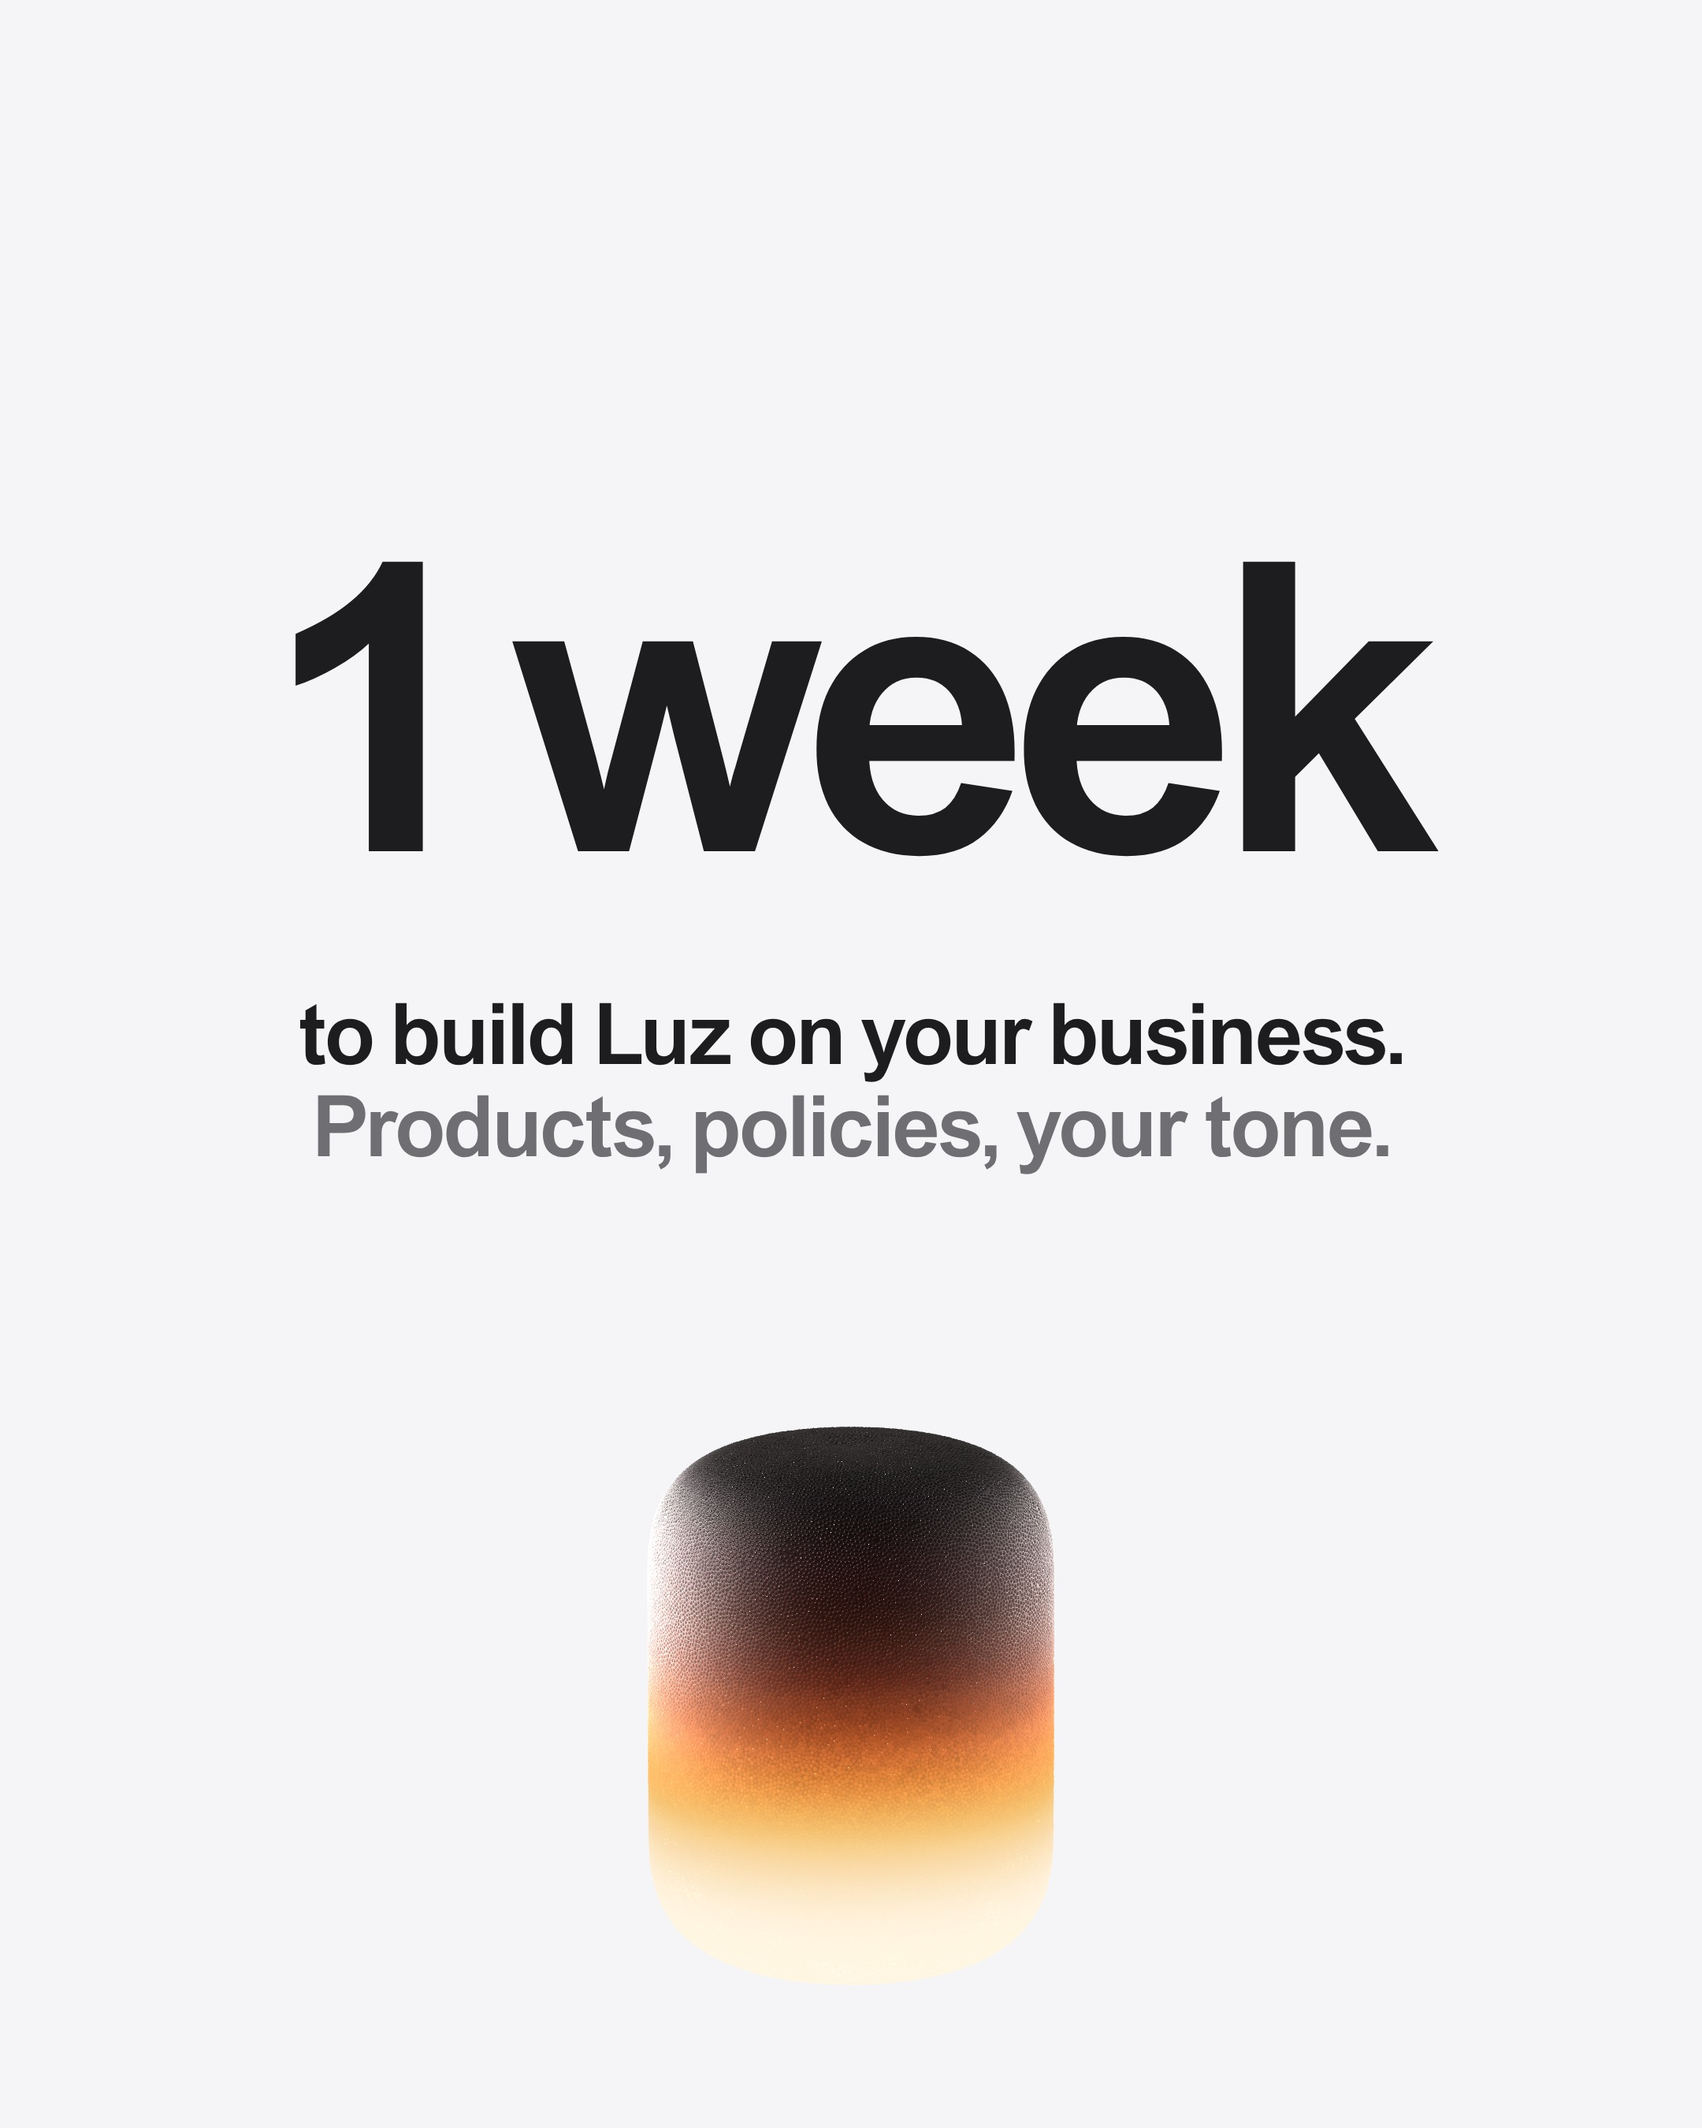
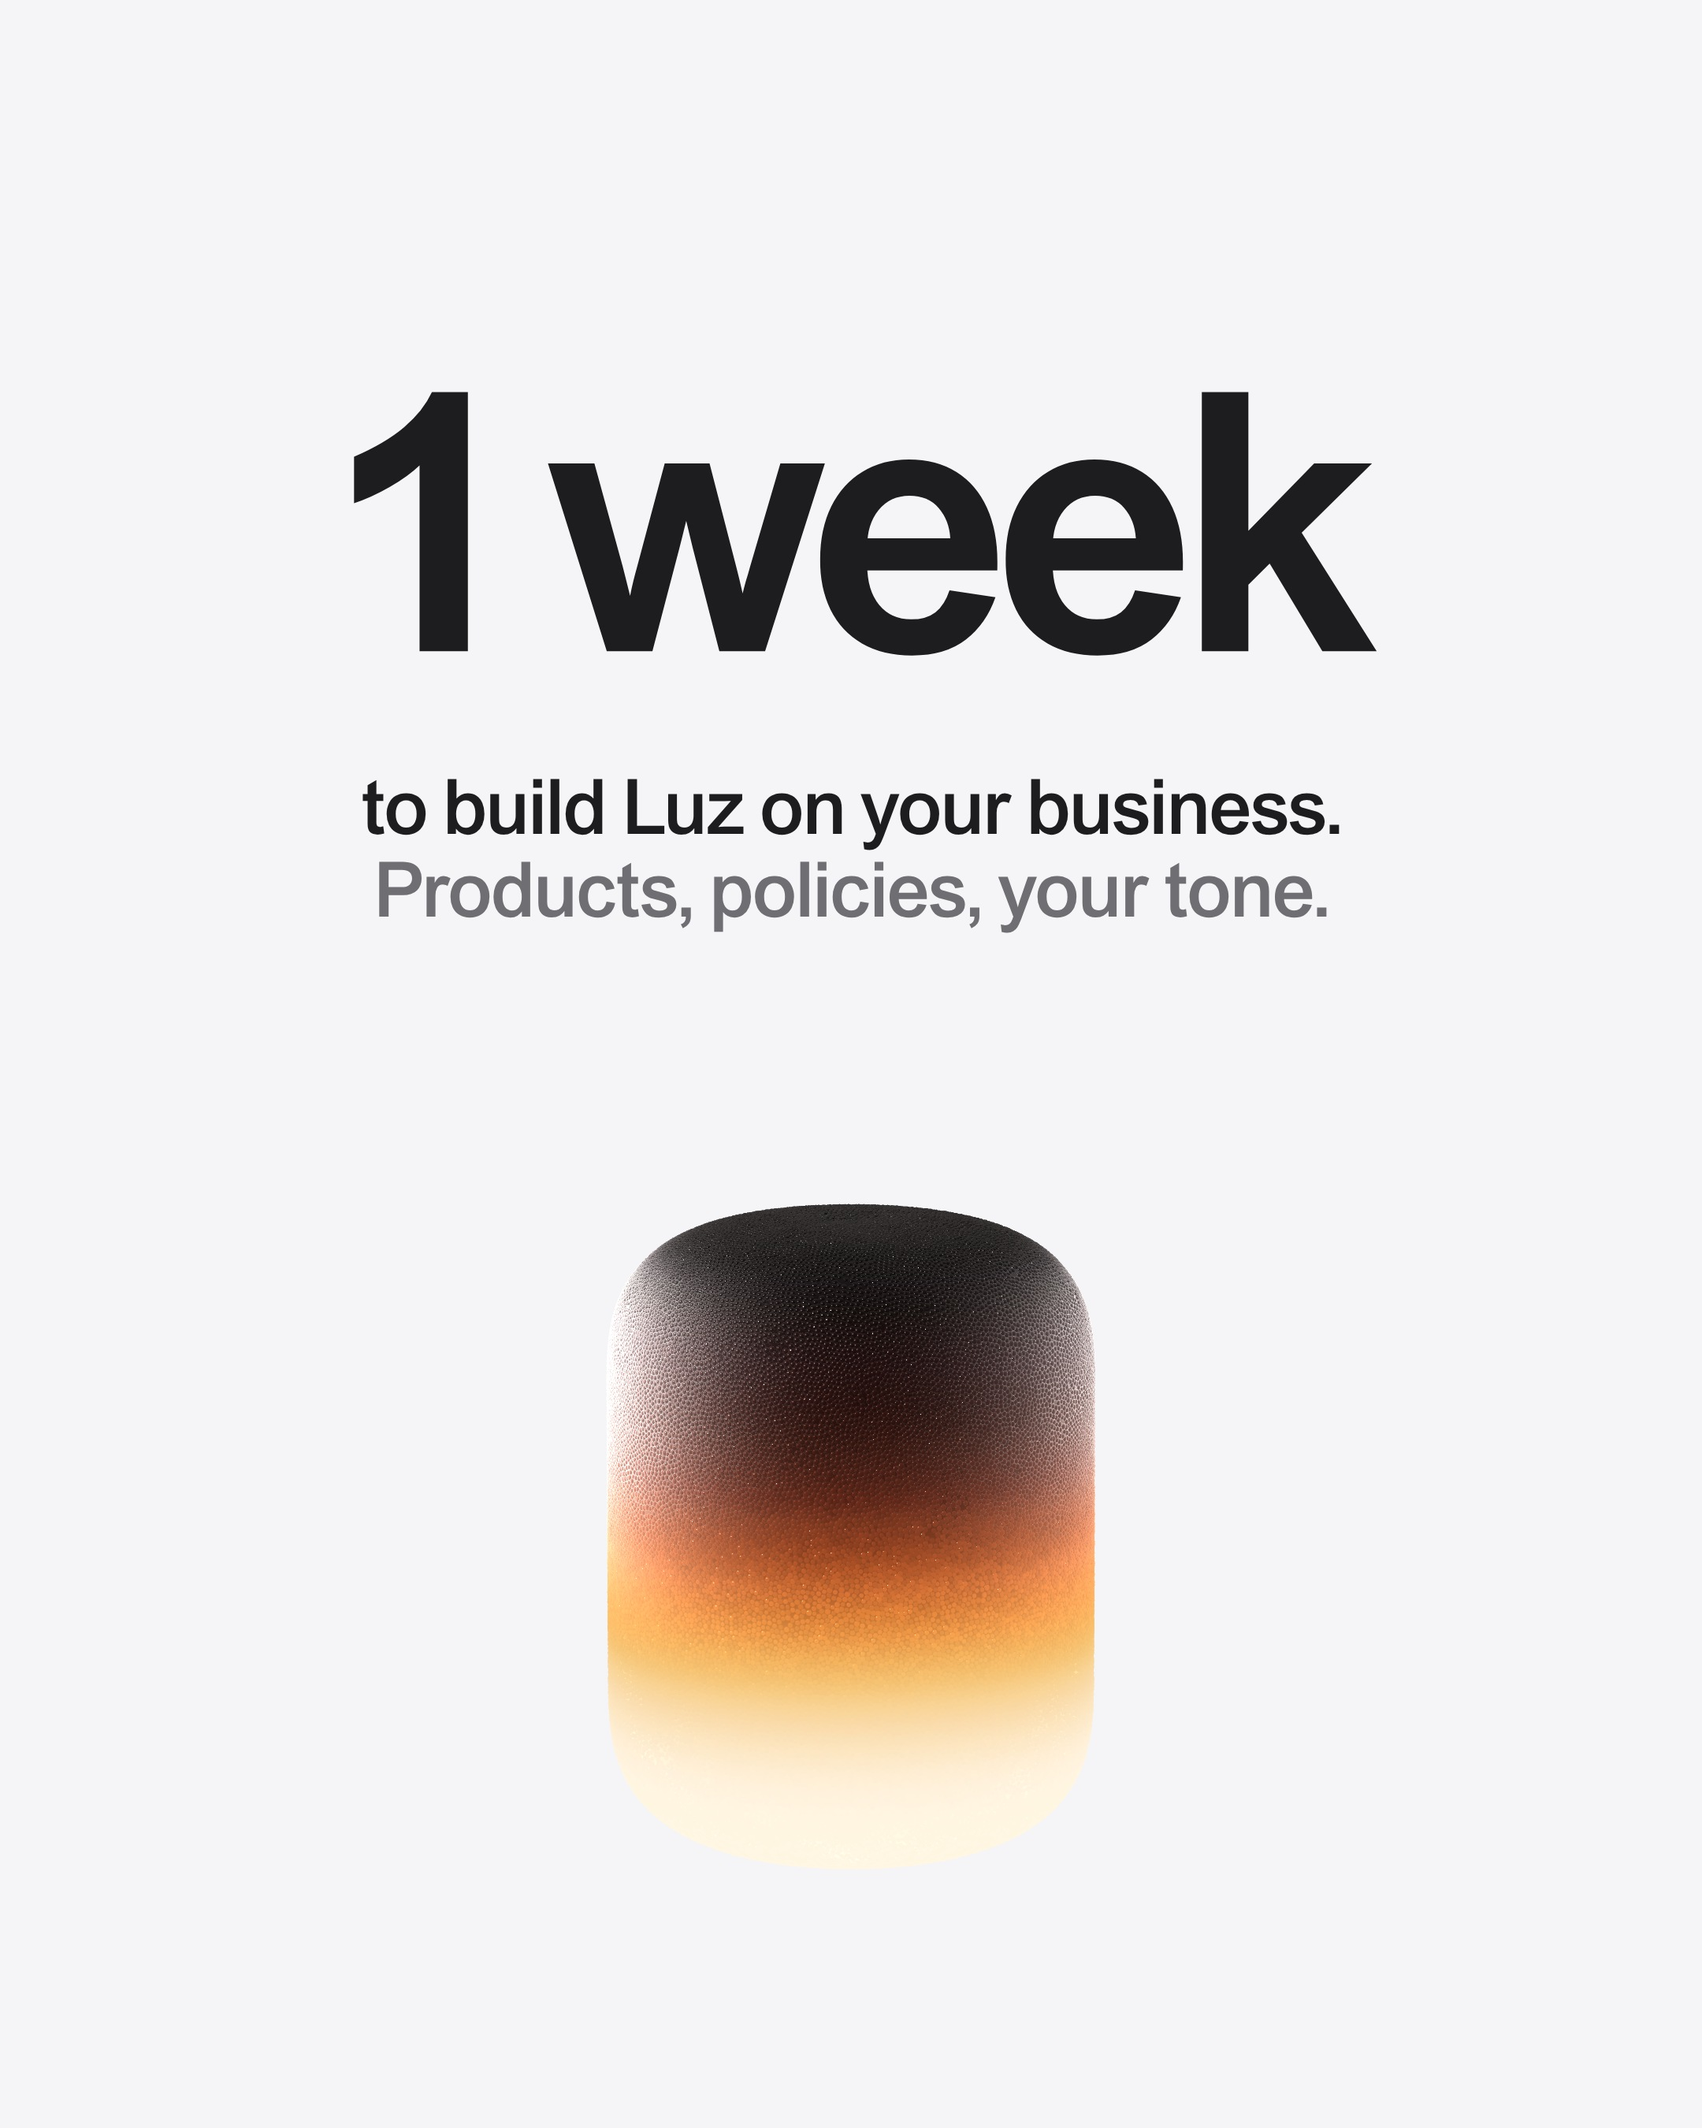
Showcase v2: golden-ratio layouts, orbs on light grounds, office photos and second portrait removed, Berley card face-zoomed
Claude-Session: https://claude.ai/code/session_01UX42cf6j9fLmYefg2Eq58S

Changed region(s): [[0.1551, 0.4667, 0.8375, 0.9333], [0.1551, 0.1867, 0.8375, 0.4356]]

diff --git a/aligncanvas/cards.js b/aligncanvas/cards.js
@@ -11,32 +11,40 @@ window.CARDS=(function(){
   const mark=(cx,cy,h,col)=>{const k=h/(20+2*MR);X.save();X.setTransform(K,0,0,K,0,0);X.fillStyle=col;MARK.forEach(([x,y])=>{X.beginPath();X.arc(cx+x*k,cy+y*k,MR*k,0,7);X.fill();});X.restore();};
   const word=(cx,cy,kw,col)=>{X.save();X.setTransform(K,0,0,K,0,0);X.fillStyle=col;WORD.forEach(([x,y])=>{X.beginPath();X.arc(cx+x*kw,cy+y*kw,WR*kw,0,7);X.fill();});X.restore();};
   const rr=(x,y,w,h,r,fill,stroke)=>{X.save();X.setTransform(K,0,0,K,0,0);X.beginPath();X.roundRect(x,y,w,h,r);if(fill){X.fillStyle=fill;X.fill();}if(stroke){X.strokeStyle=stroke;X.lineWidth=1.5;X.stroke();}X.restore();};
+  /* Oct 31 (v2): golden-ratio layouts. phi = 1.618; the key lines sit at 0.236, 0.382, 0.618 and 0.764 of the card. Text always clears the orb by
+     at least a quarter of the orb's height; orbs live on light backgrounds (their lit cream base reads best on white); a contact shadow sits under
+     each orb (clipped below the orb, so it never darkens the body). */
+  const F1=0.236,F2=0.382,F3=0.618,F4=0.764,OW=0.758;   // OW: orb width / height
+  const contact=(x,yb,w)=>{X.save();X.setTransform(K,0,0,K,0,0);X.beginPath();X.rect(0,yb-1,W,H);X.clip();const g=X.createRadialGradient(x,yb,0,x,yb,w);g.addColorStop(0,'rgba(30,30,34,0.26)');g.addColorStop(0.45,'rgba(30,30,34,0.09)');g.addColorStop(1,'rgba(30,30,34,0)');X.fillStyle=g;X.translate(x,yb);X.scale(1,0.13);X.beginPath();X.arc(0,0,w,0,7);X.fill();X.restore();};
+  const orbsOnFloor=list=>{orbs(list);list.forEach(o=>contact(o.x,o.y+o.h*0.5,o.h*OW*0.62));};
   const C={
-    hero_luz(){bg(BGW);T_('Introducing',W/2,H*0.17,H*0.034,'#86868B',{w:500,ls:-0.01});T_('Luz',W/2,H*0.29,H*0.15,INK,{ls:-0.04});
-      shadow(W/2,H*0.885,W*0.33);orbs([{x:W/2,y:H*0.62,h:H*0.5,ry:0.4}]);T_('Your new sales assistant.',W/2,H*0.955,H*0.026,'#6E6E73',{w:500,ls:-0.01});},
-    orb_pink(){bg(BGW);T_('Dressed in',W/2,H*0.15,H*0.07,INK);T_('your brand.',W/2,H*0.225,H*0.07,'#FF4F9A');shadow(W/2,H*0.9,W*0.34);orbs([{x:W/2,y:H*0.62,h:H*0.52,c:'#FF4F9A',ry:0.9}]);},
-    orb_trio(){bg('#0B0B0C');T_('One assistant.',W/2,H*0.15,H*0.062,'#F5F5F7');T_('Every page. Every hour.',W/2,H*0.215,H*0.062,'#86868B');
-      orbs([{x:W*0.24,y:H*0.66,h:H*0.3,c:'#7A4BFF',ry:1.2},{x:W*0.76,y:H*0.66,h:H*0.3,c:'#1F7BFF',ry:2.1},{x:W/2,y:H*0.6,h:H*0.42,ry:0.5}]);},
-    artel_black(){bg('#0B0B0C');mark(W/2,H*0.36,H*0.07,'#FF7B00');word(W/2,H*0.5,W*0.0085,'#F5F5F7');T_('a Montréal AI company',W/2,H*0.6,H*0.026,'#86868B',{w:500,ls:0});
-      T_('AI agents and software that grow your business.',W/2,H*0.9,H*0.022,'#6E6E73',{w:500,ls:0});},
-    stat_59(){bg(BGW);T_('Why Luz',W*0.1,H*0.14,H*0.026,'#86868B',{w:500,align:'left',ls:0});T_('59%',W*0.09,H*0.47,H*0.27,INK,{align:'left',ls:-0.055});
-      lines(['of Montreal Weights’','conversations come in','when the shop is closed.'],W*0.1,H*0.6,H*0.048,INK,{align:'left'});T_('Luz answers.',W*0.1,H*0.83,H*0.048,'#FF7B00',{align:'left'});
-      orbs([{x:W*0.86,y:H*0.86,h:H*0.16,ry:0.3}]);},
-    stat_5400(){bg('#0B0B0C');T_('Montreal Weights · past year',W*0.1,H*0.14,H*0.026,'#86868B',{w:500,align:'left',ls:0});T_('5,400+',W*0.09,H*0.44,H*0.2,'#F5F5F7',{align:'left',ls:-0.05});
-      lines(['conversations answered.','About 3 seconds each.'],W*0.1,H*0.57,H*0.05,['#F5F5F7','#86868B'],{align:'left'});orbs([{x:W*0.72,y:H*0.86,h:H*0.3,c:'#FF7B00',ry:0.8}]);},
-    stat_week(){bg(BGW);T_('1 week',W/2,H*0.4,H*0.19,INK,{ls:-0.05});lines(['to build Luz on your business.','Products, policies, your tone.'],W/2,H*0.5,H*0.04,[INK,'#6E6E73']);
-      shadow(W/2,H*0.95,W*0.25);orbs([{x:W/2,y:H*0.8,h:H*0.25,ry:0.45}]);},
-    chat(){bg(BGW);T_('Changes an order.',W/2,H*0.12,H*0.055,INK);T_('In seconds, day or night.',W/2,H*0.17,H*0.055,'#86868B');
-      const x0=W*0.08,w=W*0.84,y0=H*0.25,h=H*0.66;X.save();X.setTransform(K,0,0,K,0,0);X.shadowColor='rgba(0,0,0,0.10)';X.shadowBlur=60;X.shadowOffsetY=20;rr(x0,y0,w,h,40,'#FFFFFF');X.restore();rr(x0,y0,w,h,40,null,'#E9E9EE');
+    hero_luz(){bg(BGW);T_('Introducing',W/2,H*0.15,H*0.03,'#86868B',{w:500,ls:-0.01});T_('Luz',W/2,H*F1+H*0.03,H*0.14,INK,{ls:-0.04});
+      const h=H*0.42;orbsOnFloor([{x:W/2,y:H*F3+H*0.02,h,ry:0.4}]);T_('Your new sales assistant.',W/2,H*0.93,H*0.024,'#6E6E73',{w:500,ls:-0.01});},
+    orb_pink(){bg(BGW);T_('Dressed in',W/2,H*0.14,H*0.062,INK);T_('your brand.',W/2,H*0.14+H*0.067,H*0.062,'#FF4F9A');const h=H*0.44;orbsOnFloor([{x:W/2,y:H*F3+H*0.03,h,c:'#FF4F9A',ry:0.9}]);},
+    orb_trio(){bg(BGW);T_('One assistant.',W/2,H*0.14,H*0.058,INK);T_('Every page. Every hour.',W/2,H*0.14+H*0.064,H*0.058,'#86868B');
+      /* three on one floor line: the centre orb h, the two beside it h/phi, equal gaps of (side width)/phi^2; bottoms on the 0.764 line */
+      const fl=H*0.80,hc=Math.min(H*0.40,W*0.84/(OW*2.708)),hs=hc/1.618,wc=hc*OW,ws=hs*OW,gap=ws/2.618,dx=wc/2+gap+ws/2;
+      orbsOnFloor([{x:W/2-dx,y:fl-hs/2,h:hs,c:'#7A4BFF',ry:1.2},{x:W/2+dx,y:fl-hs/2,h:hs,c:'#1F7BFF',ry:2.1},{x:W/2,y:fl-hc/2,h:hc,ry:0.5}]);},
+    artel_black(){bg('#0B0B0C');mark(W/2,H*F2-H*0.02,H*0.06,'#FF7B00');word(W/2,H*0.5,W*0.0085,'#F5F5F7');T_('a Montréal AI company',W/2,H*F3,H*0.024,'#86868B',{w:500,ls:0});
+      T_('AI agents and software that grow your business.',W/2,H*0.92,H*0.021,'#6E6E73',{w:500,ls:0});},
+    stat_59(){bg(BGW);T_('Why Luz',W*0.1,H*0.12,H*0.024,'#86868B',{w:500,align:'left',ls:0});T_('59%',W*0.09,H*F2,H*0.24,INK,{align:'left',ls:-0.055});
+      lines(['of Montreal Weights’','conversations come in','when the shop is closed.'],W*0.1,H*0.47,H*0.044,INK,{align:'left'});T_('Luz answers.',W*0.1,H*0.66,H*0.044,'#FF7B00',{align:'left'});
+      const h=H*0.2;orbsOnFloor([{x:W*0.76,y:H*0.86-h/2,h,ry:0.3}]);},
+    stat_5400(){bg(BGW);T_('Montreal Weights · past year',W*0.1,H*0.12,H*0.024,'#86868B',{w:500,align:'left',ls:0});T_('5,400+',W*0.09,H*F2-H*0.02,H*0.19,INK,{align:'left',ls:-0.05});
+      lines(['conversations answered.','About 3 seconds each.'],W*0.1,H*0.46,H*0.046,[INK,'#86868B'],{align:'left'});const h=H*0.28;orbsOnFloor([{x:W*0.68,y:H*0.88-h/2,h,c:'#FF7B00',ry:0.8}]);},
+    stat_week(){bg(BGW);T_('1 week',W/2,H*F1+H*0.07,H*0.17,INK,{ls:-0.05});lines(['to build Luz on your business.','Products, policies, your tone.'],W/2,H*F2+H*0.01,H*0.036,[INK,'#6E6E73'],{w:500});
+      const h=H*0.3;orbsOnFloor([{x:W/2,y:H*0.87-h/2,h,ry:0.45}]);},
+    chat(){bg(BGW);T_('Changes an order.',W/2,H*0.11,H*0.052,INK);T_('In seconds, day or night.',W/2,H*0.11+H*0.058,H*0.052,'#86868B');
+      const x0=W*0.08,w=W*0.84,y0=H*F1,h=H*0.68;X.save();X.setTransform(K,0,0,K,0,0);X.shadowColor='rgba(0,0,0,0.10)';X.shadowBlur=60;X.shadowOffsetY=20;rr(x0,y0,w,h,40,'#FFFFFF');X.restore();rr(x0,y0,w,h,40,null,'#E9E9EE');
       const fs=H*0.024;X.save();X.setTransform(K,0,0,K,0,0);X.fillStyle='#FF7B00';X.beginPath();X.arc(x0+46,y0+52,9,0,7);X.fill();X.restore();T_('Luz · yourstore.com',x0+66,y0+60,fs*0.95,'#6E6E73',{w:500,align:'left',ls:0});
       const msgs=[['c','Can I switch my order to a size M?','It hasn’t shipped.'],['l','Found it, order #4821. It hasn’t','shipped, so I’ve switched it to M.'],['l','A new confirmation is on its','way to your inbox.'],['c','Perfect, thanks!']];
       let y=y0+120;msgs.forEach(([who,...L])=>{X.save();X.setTransform(K,0,0,K,0,0);X.font=`500 ${fs}px ${CF}`;const tw=Math.max(...L.map(s=>X.measureText(s).width));X.restore();const pad=fs*0.75,bw=tw+pad*2,bh=L.length*fs*1.3+pad*1.6,bx=who==='c'?x0+w-36-bw:x0+36;
         rr(bx,y,bw,bh,Math.min(fs*1.1,bh/2),who==='c'?INK:'#EDEDF0');L.forEach((s,i)=>T_(s,bx+pad,y+pad+fs*0.95+i*fs*1.3,fs,who==='c'?'#FFFFFF':INK,{w:500,align:'left',ls:-0.005}));y+=bh+fs*0.9;});
       rr(x0+36,y0+h-120,w-72,84,24,'#FFFFFF','#E5E5EA');T_('Order #4821',x0+64,y0+h-70,fs,INK,{align:'left',ls:0});T_('Updated ✓',x0+w-64,y0+h-70,fs,'#FF7B00',{align:'right',ls:0});},
-    bilingual(){bg(BGW);T_('Bonjour.',W/2,H*0.36,H*0.13,INK,{ls:-0.045});T_('Hello.',W/2,H*0.5,H*0.13,'#FF7B00',{ls:-0.045});
-      lines(['Luz answers in French and English,','in your voice.'],W/2,H*0.6,H*0.034,['#1D1D1F','#6E6E73'],{w:500,ls:-0.01});shadow(W/2,H*0.96,W*0.22);orbs([{x:W/2,y:H*0.83,h:H*0.22,ry:0.6}]);},
-    tagline(){bg('#0B0B0C');lines(['Run the operation.','Stop being the operation.'],W/2,H*0.44,H*0.062,['#F5F5F7','#86868B']);
-      const bw=W*0.36,bh=H*0.06;rr(W/2-bw/2,H*0.56,bw,bh,bh/2,'#FF7B00');T_('Book a Call',W/2,H*0.56+bh*0.64,bh*0.38,'#FFFFFF',{w:500,ls:-0.01});mark(W/2,H*0.86,H*0.045,'#F5F5F7');},
+    bilingual(){bg(BGW);T_('Bonjour.',W/2,H*F1+H*0.02,H*0.12,INK,{ls:-0.045});T_('Hello.',W/2,H*F2,H*0.12,'#FF7B00',{ls:-0.045});
+      lines(['Luz answers in French and English,','in your voice.'],W/2,H*0.46,H*0.03,['#1D1D1F','#6E6E73'],{w:500,ls:-0.01});const h=H*0.28;orbsOnFloor([{x:W/2,y:H*0.86-h/2,h,ry:0.6}]);},
+    tagline(){bg('#0B0B0C');lines(['Run the operation.','Stop being the operation.'],W/2,H*F2+H*0.04,H*0.06,['#F5F5F7','#86868B']);
+      const bw=W*0.36,bh=H*0.06;rr(W/2-bw/2,H*0.565,bw,bh,bh/2,'#FF7B00');T_('Book a Call',W/2,H*0.565+bh*0.64,bh*0.38,'#FFFFFF',{w:500,ls:-0.01});mark(W/2,H*0.88,H*0.04,'#F5F5F7');},
   };
   /* client cards: footage behind, the client's name and one line */
   C.client=async(src,brand,line,fy)=>{const im=new Image();im.src=src;await im.decode();bg('#000');X.save();X.setTransform(K,0,0,K,0,0);const s=Math.max(W/im.width,H/im.height),dw=im.width*s,dh=im.height*s;X.drawImage(im,(W-dw)/2,(H-dh)*(fy??0.5),dw,dh);

diff --git a/aligncanvas/paul.py b/aligncanvas/paul.py
@@ -2,13 +2,7 @@ import asyncio,base64,os
 from playwright.async_api import async_playwright
 OUT='showcase';os.makedirs(OUT,exist_ok=True)
 JOBS=[
- ('p_first',"CARDS.photo('paul/firstsection.jpg',{fx:0.66,grad:1,gt:0.5,ga:0.72,draw:()=>{CARDS._lines(['AI agents and software','that grow your business.'],W*0.08,H*0.84,H*0.044,'#FFFFFF',{align:'left'});CARDS._mark(W*0.9,H*0.08,H*0.032,'rgba(255,255,255,0.92)');}})"),
- ('p_quote',"CARDS.photo('paul/quote.jpg',{fx:0.5})"),
- ('p_boardroom',"CARDS.photo('paul/boardroom.jpg',{fx:0.32,gradTop:0.55,draw:()=>{CARDS._lines(['Run the operation.','Stop being the operation.'],W/2,H*0.12,H*0.046,['#FFFFFF','rgba(255,255,255,0.72)']);}})"),
- ('p_portrait',"CARDS.photo('paul/portrait45.jpg',{fy:0.3,grad:1,gt:0.7,ga:0.6,draw:()=>{CARDS._T('Berley Bruny',W*0.08,H*0.9,H*0.034,'#FFFFFF',{align:'left'});CARDS._T('Founder, Artel',W*0.08,H*0.935,H*0.024,'rgba(255,255,255,0.7)',{w:500,align:'left',ls:0});}})"),
- ('p_portrait_light',"CARDS.photo('paul/portraitwide.jpg',{fx:0.78})"),
- ('p_mark',"CARDS.photo('paul/marklogo.jpg',{bg:'#FFFFFF',fx:0.5})"),
- ('p_discs',"CARDS.photo('paul/discs.png',{bg:'#0B0B0C',z:0.62})"),
+ ('p_portrait_berley',"CARDS.photo('paul/portrait45.jpg',{fy:0.12,fx:0.6,z:1.18})"),
 ]
 async def main():
   async with async_playwright() as p:
@@ -22,7 +16,5 @@ async def main():
       d=await pg.evaluate('document.getElementById("c").toDataURL("image/png")');open(f'{OUT}/{n}.png','wb').write(base64.b64decode(d.split(',')[1]));print(n)
     for n,js in JOBS:
       await pg.evaluate(f'(async()=>{{setStage("4:5",2);await {js};}})()');await save(n)
-    for k in range(2):await pg.evaluate('(()=>{window.SCOREK="groove";window.LUZ_HQ=true;setStage("4:5",2);const t=T.CX0+2.8*1.3;window.__T=t;seek(t);})()');await pg.wait_for_timeout(500)
-    await save('film_cx_rings')
     await b.close()
 asyncio.run(main())

diff --git a/aligncanvas/cards.py b/aligncanvas/cards.py
@@ -1,11 +1,9 @@
 import asyncio,base64,os
 from playwright.async_api import async_playwright
 OUT='showcase';os.makedirs(OUT,exist_ok=True)
-NAMES=['hero_luz','orb_pink','orb_trio','artel_black','stat_59','stat_5400','stat_week','chat','bilingual','tagline']
-CLIENTS=[('client_montreal_weights','cand/mwA2_0_1.0.png','Montreal Weights',['The bilingual support agent,','live since 2024.'],0.5),
-         ('client_nordik_recovery','cand/nrA1_0_1.8.png','Nordik Recovery',['A product expert beside','every sales rep.'],0.5),
-         ('client_ic_production','cand/icA1_0_0.3.png','I.C. Production',['Luz books the visit.','The crew is on site.'],0.5)]
-FILM=[('film_cx_rings','T.CX0+2.8*1.3'),('film_colour_lineup','T.LU0+3.6'),('film_every_customer','T.SP0-0.6')]
+NAMES=['orb_trio','artel_black','tagline']
+CLIENTS=[]
+FILM=[]
 async def main():
   async with async_playwright() as p:
     b=await p.chromium.launch(args=['--use-gl=swiftshader','--enable-unsafe-swiftshader','--ignore-gpu-blocklist'])
